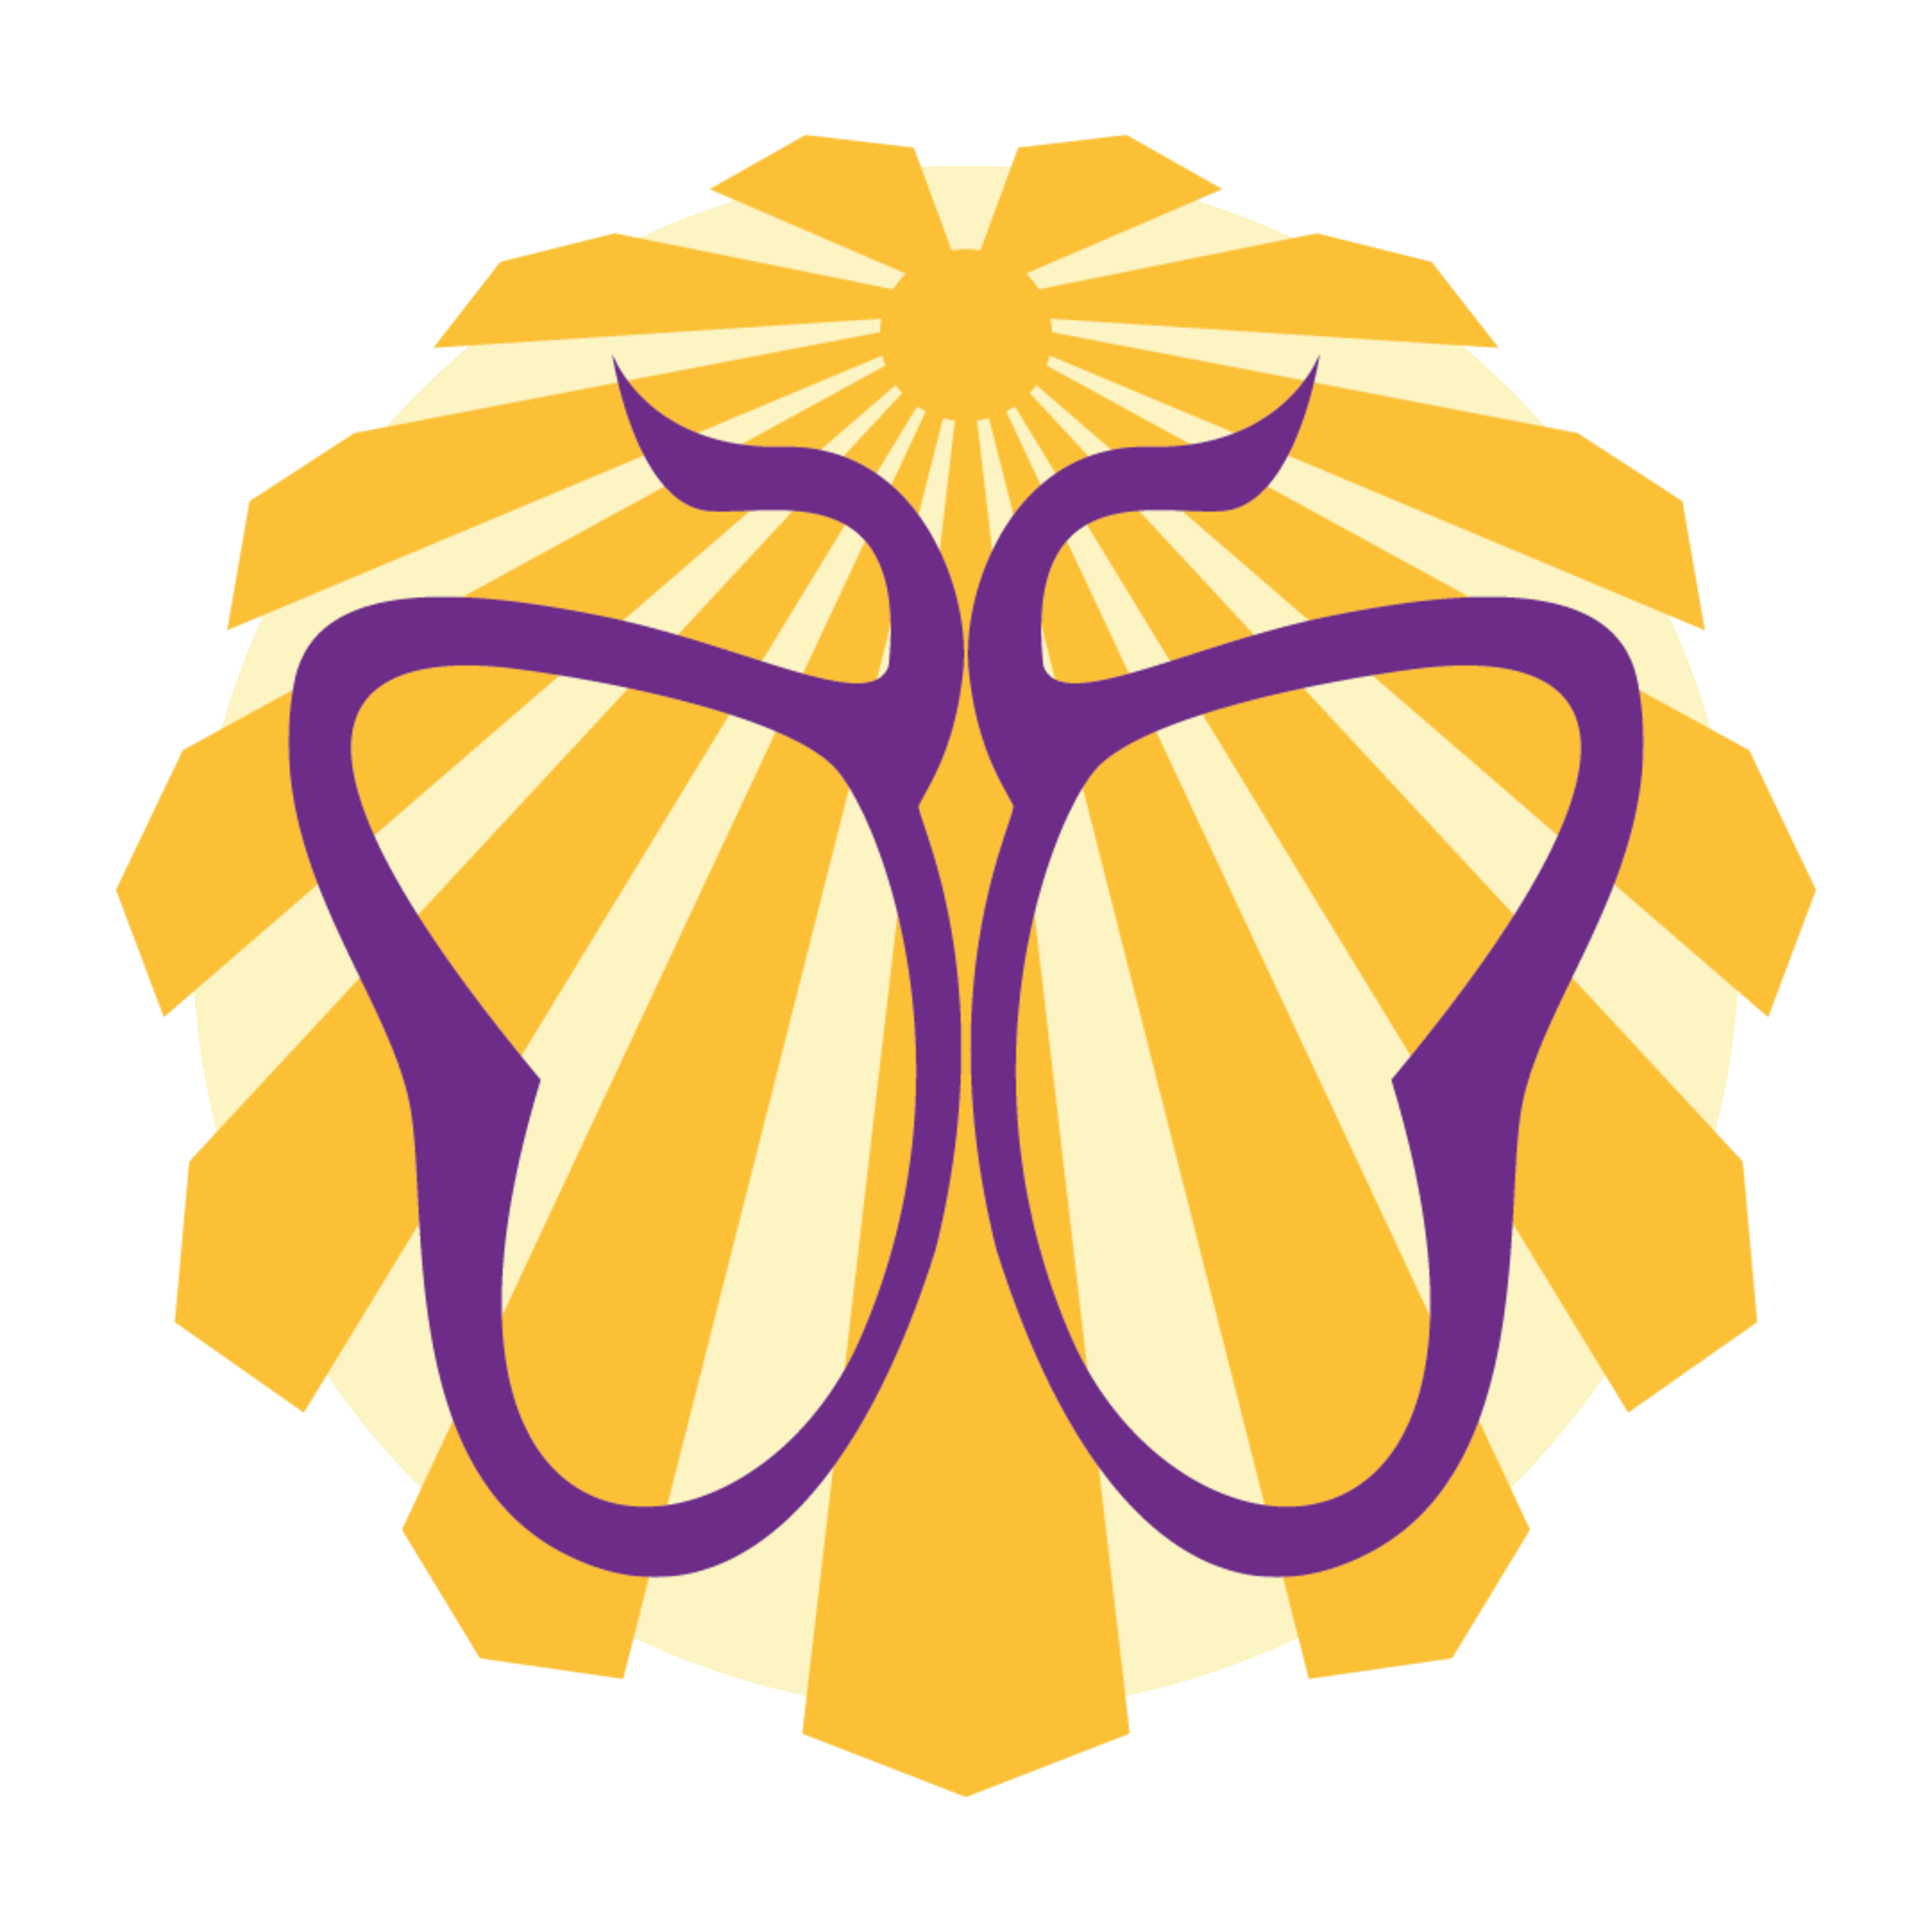
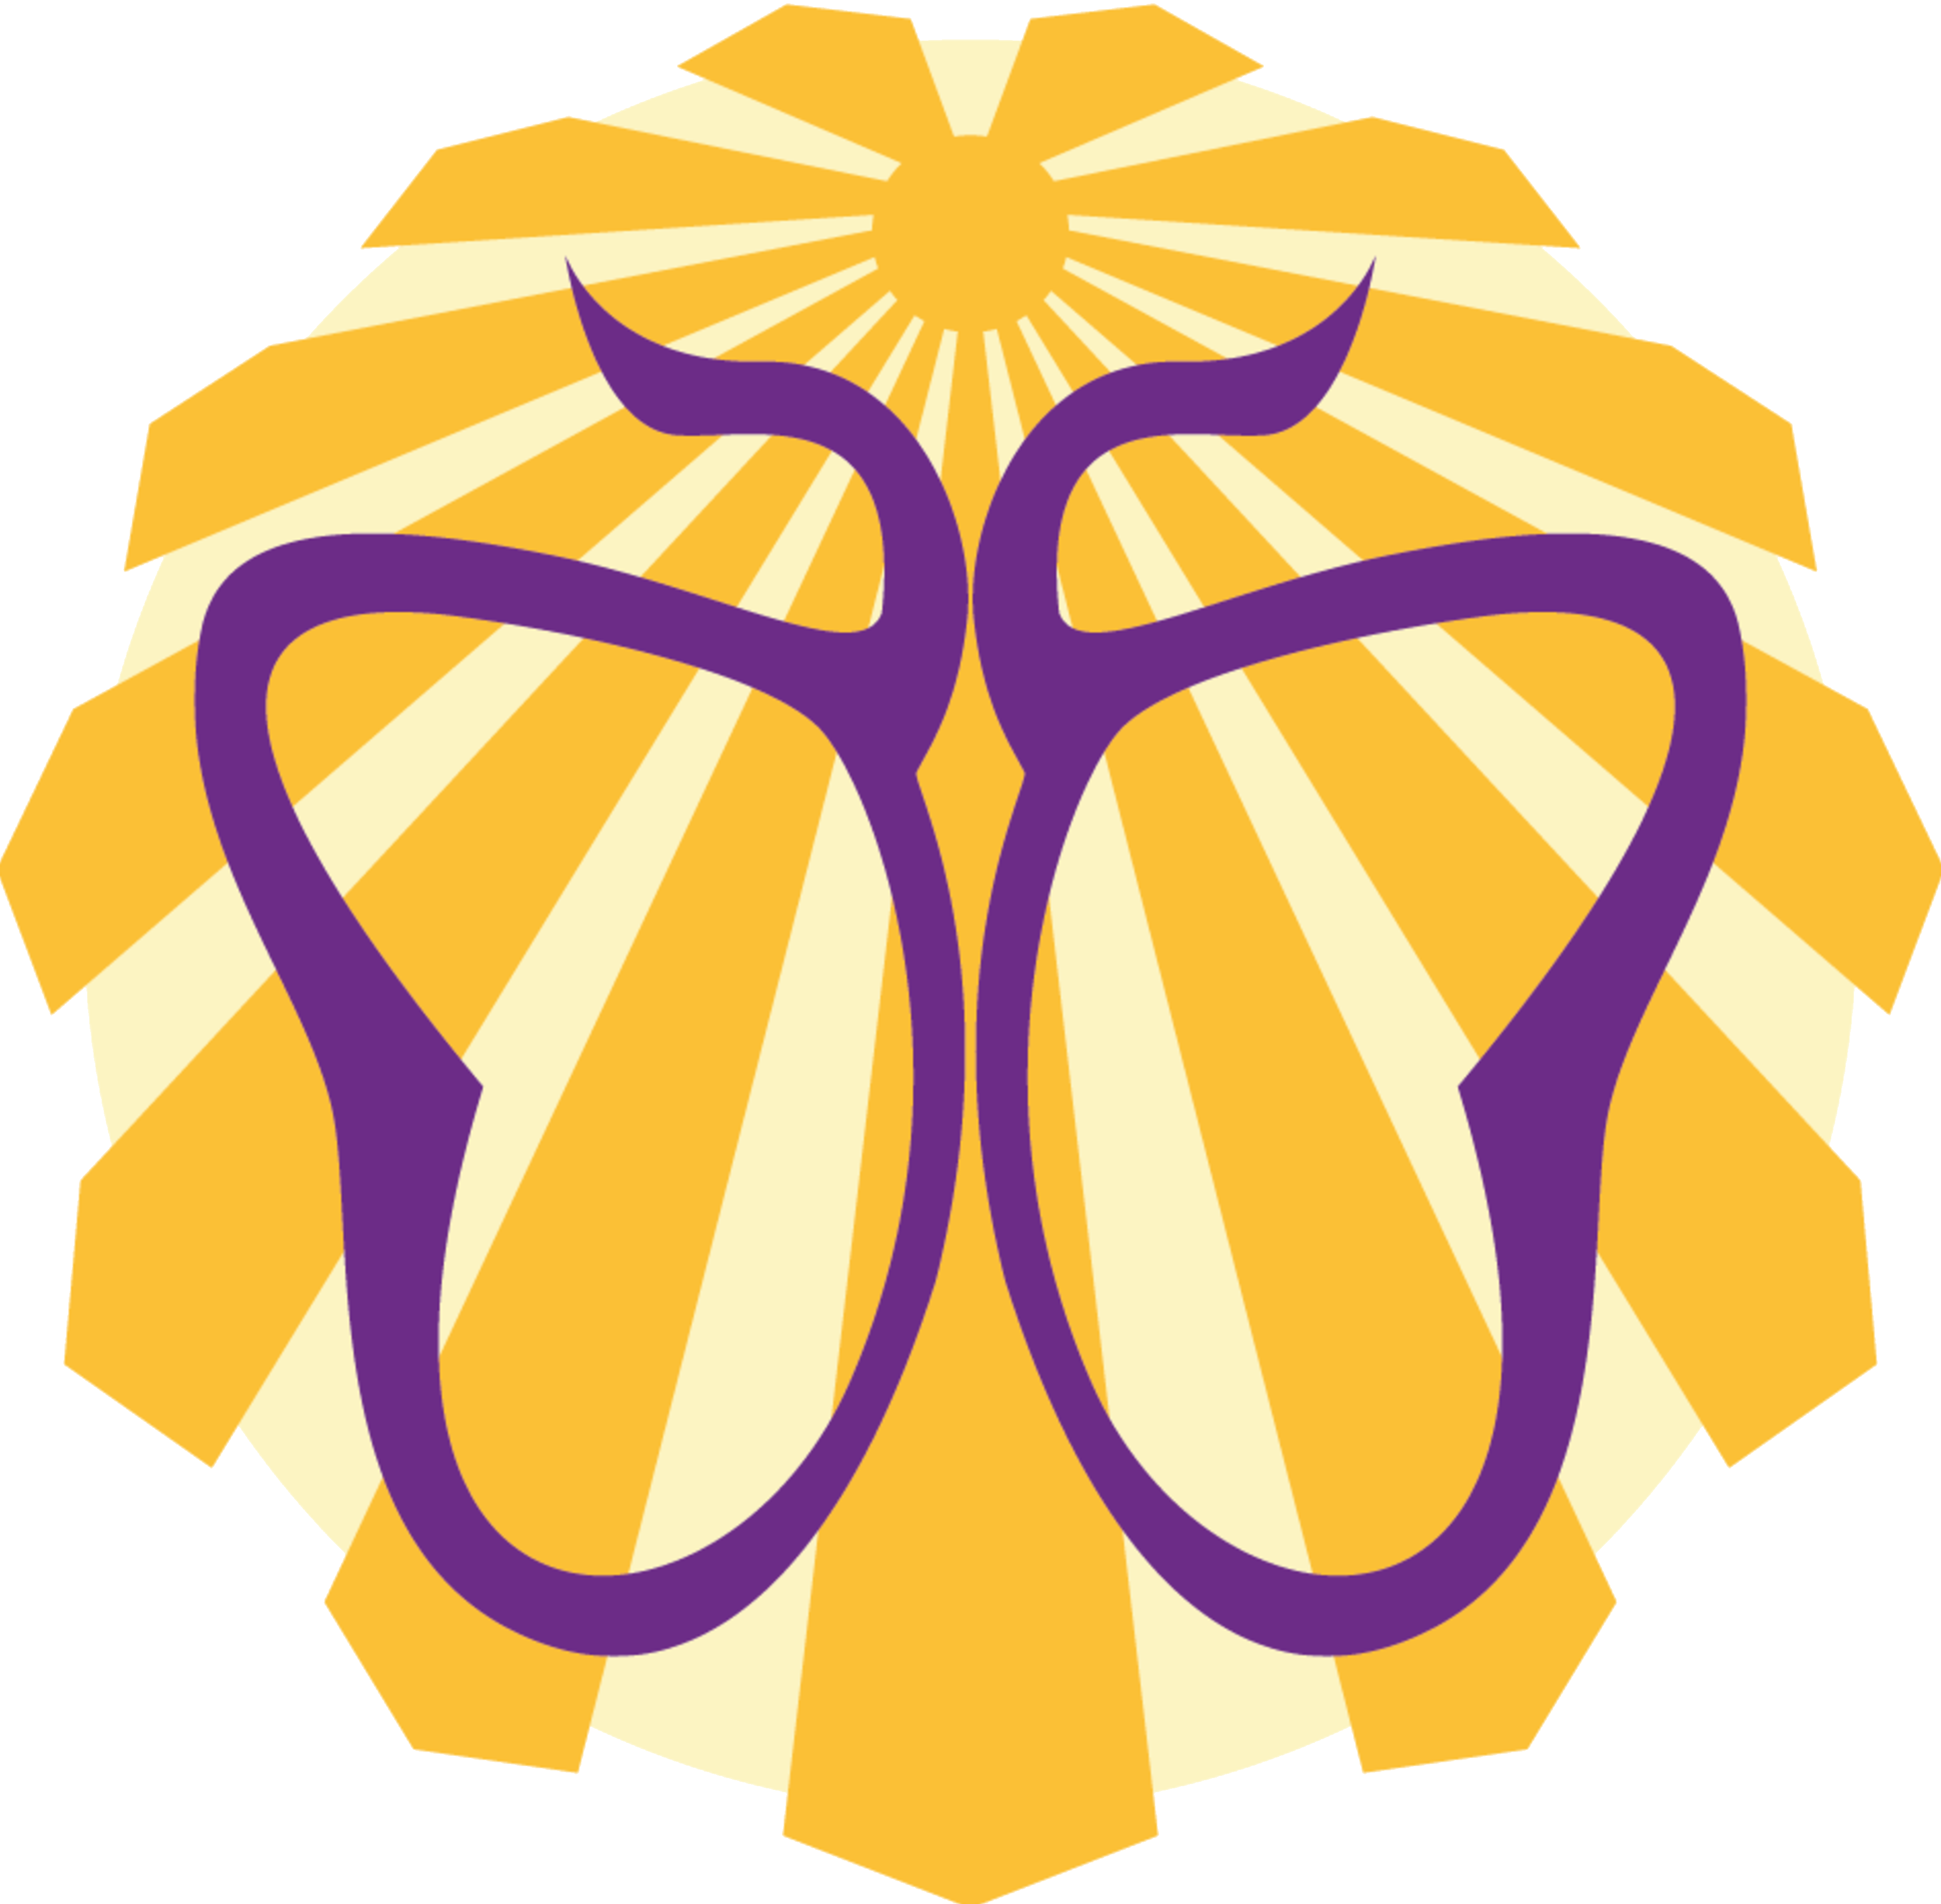
basic header + footer

diff --git a/src/components/Footer.tsx b/src/components/Footer.tsx
@@ -1,0 +1,59 @@
+import diveLogo from '../assets/dive.png'
+import instagramIcon from '../assets/instagram.svg'
+import linkedinIcon from '../assets/linkedin.svg'
+import facebookIcon from '../assets/facebook.svg'
+import './Footer.css'
+
+function Footer() {
+  return (
+    <footer className="footer-container">
+      <div className="footer-inner">
+        <div className="footer-column">
+          <h2>Vad är Dive?</h2>
+          <p>
+            Dive är en studentdriven projektgrupp på Datasektionen jobbar med att nå ut till kvinnor och icke-binära som ska söka högskoleutbildning till hösten för att visa upp både programmet och sektionen.
+          </p>
+        </div>
+
+        <div className="footer-column">
+          <h2>Kontakta oss</h2>
+          <p>
+            Du kan antingen kontakta oss genom
+            <a href="#" className="footer-link-emphasis">
+              {"frågelådan "}
+            </a>
+            {" eller genom att maila"}
+            <a href="mailto:[email redacted]" className="footer-link">
+              [email redacted]
+            </a>
+          </p>
+        </div>
+
+        <div className="footer-right-column">
+          <div className="footer-social-links">
+            {/* <img src={diveLogo} alt="Dive logotyp" className="footer-logo" /> */}
+            <a href="#" className="footer-social-link" aria-label="Dive">
+              <img src={diveLogo} alt="Dive" className="footer-social-icon-dive" />
+            </a>
+            <a href="https://www.instagram.com/dive_kth/" className="footer-social-link" aria-label="Instagram">
+              <img src={instagramIcon} alt="Instagram" className="footer-social-icon" />
+            </a>
+            <a href="https://www.facebook.com/profile.php?id=61574217249948" className="footer-social-link" aria-label="Facebook">
+              <img src={facebookIcon} alt="Facebook" className="footer-social-icon" />
+            </a>
+            <a href="https://www.linkedin.com/company/dive-kth/" className="footer-social-link" aria-label="LinkedIn">
+              <img src={linkedinIcon} alt="LinkedIn" className="footer-social-icon" />
+            </a>
+          </div>
+        </div>
+      </div>
+
+      <div className="footer-bottom">
+        {/* © */}
+        2026 Datasektionen, KTH Sverige
+      </div>
+    </footer>
+  )
+}
+
+export default Footer

diff --git a/src/components/Footer.css b/src/components/Footer.css
@@ -1,0 +1,53 @@
+@reference "../index.css";
+
+.footer-container {
+  @apply w-full bg-primary text-white;
+}
+
+.footer-inner {
+  @apply w-full px-6 py-5 grid gap-8 md:grid-cols-[minmax(320px,1fr)_minmax(320px,1fr)_minmax(240px,320px)];
+}
+
+.footer-column h2 {
+  @apply text-xl font-semibold mb-3;
+}
+
+.footer-column p {
+  @apply text-sm leading-6 text-white;
+}
+
+.footer-link {
+  @apply inline-block text-white underline hover:text-white/90 ml-1;
+}
+
+.footer-link-emphasis {
+  @apply inline-block text-white italic hover:text-white/90 ml-1;
+}
+
+.footer-right-column {
+  @apply flex flex-col items-center justify-between gap-6 md:items-end;
+}
+
+.footer-logo {
+  @apply w-15 h-auto;
+}
+
+.footer-social-links {
+  @apply flex flex-wrap gap-5 mt-2 justify-center md:justify-end;
+}
+
+.footer-social-link {
+  @apply inline-flex items-center justify-center w-15 h-15 text-white;
+}
+
+.footer-social-icon {
+  @apply w-10 h-10;
+}
+
+.footer-social-icon-dive {
+  @apply w-15 h-15 mr-10;
+}
+
+.footer-bottom {
+  @apply border-t border-none text-sm text-white/70 py-2 text-center md:text-right px-6;
+}

diff --git a/src/components/Navigation.css b/src/components/Navigation.css
@@ -1,7 +1,7 @@
 @reference "../index.css";
 
 .nav-container {
-    @apply fixed top-0 left-0 right-0 z-50 bg-black;
+    @apply fixed top-0 left-0 right-0 z-50 bg-primary;
 }
 
 .nav-content {
@@ -9,25 +9,29 @@
 }
 
 .nav-flex {
-    @apply flex items-center;
+    @apply relative flex items-center justify-center h-16;
 }
 
 .nav-brand {
-    @apply text-xl font-bold text-white hover:text-gray-300 transition-colors;
+    @apply absolute left-0 text-xl font-bold text-white hover:text-gray-300 transition-colors w-[60px];
 }
 
 .nav-links {
-    @apply flex gap-2;
+    @apply flex;
+}
+
+.nav-button {
+    @apply bg-primary text-white hover:bg-primary-foreground transition-colors h-full rounded-none focus:outline-none focus-visible:ring-0;
 }
 
 .nav-button-active {
-    @apply bg-white text-black hover:bg-gray-100;
+    @apply bg-primary-foreground;
 }
 
-.nav-button-inactive {
-    @apply hover:bg-white/20;
-}
-
-.nav-button-base {
-    @apply text-gray-500 hover:text-black transition-colors h-full;
+.nav-button-active-text {
+    @apply text-transparent;
+    background-image: linear-gradient(to right, #FF9000, #E83D84);
+    background-clip: text;
+    -webkit-background-clip: text;
+    -webkit-text-fill-color: transparent;
 }

diff --git a/src/components/Navigation.tsx b/src/components/Navigation.tsx
@@ -18,28 +18,29 @@ function Navigation() {
         <nav className="nav-container">
             <div className="nav-content">
                 <div className="nav-flex">
-                    <Link to="/" className="nav-brand w-[60px]">
+                    <Link to="/" className="nav-brand">
                         <img src={diveLogo} alt="Dive Logo" className="nav-logo" />
                     </Link>
                     <div className="nav-links flex h-full">
                         {navItems.map((item) => (
                             <Link key={item.path} to={item.path}>
                                 <Button
-                                    variant={location.pathname === item.path ? "default" : "ghost"}
+                                    variant="ghost"
                                     // size="sm"
                                     className={cn(
-                                        "nav-button-base",
-                                        location.pathname === item.path
-                                            ? "nav-button-active"
-                                            : "nav-button-inactive"
+                                        "nav-button",
+                                        location.pathname === item.path && "nav-button-active"
                                     )}
                                 >
-                                    {item.label}
+                                    <span
+                                        className={location.pathname === item.path ? "nav-button-active-text" : undefined}
+                                    >
+                                        {item.label}
+                                    </span>
                                 </Button>
                             </Link>
                         ))}
                     </div>
-                    <div></div>
                 </div>
             </div>
         </nav>

diff --git a/src/App.tsx b/src/App.tsx
@@ -1,6 +1,7 @@
 import { Routes, Route } from 'react-router-dom'
 import './App.css'
 import Navigation from './components/Navigation'
+import Footer from './components/Footer'
 import Home from './pages/Home'
 import About from './pages/About'
 import Contact from './pages/Contact'
@@ -8,9 +9,9 @@ import NotFound from './pages/NotFound'
 
 function App() {
   return (
-    <div>
+    <div className="min-h-screen flex flex-col">
       <Navigation />
-      <main className="pt-20 w-screen">
+      <main className="pt-20 flex-1">
         <Routes>
           <Route path="/" element={<Home />} />
           <Route path="/about" element={<About />} />
@@ -18,6 +19,7 @@ function App() {
           <Route path="*" element={<NotFound />} /> {/* Catch-all, måste va sist */}
         </Routes>
       </main>
+      <Footer />
     </div>
   )
 }

diff --git a/src/index.css b/src/index.css
@@ -23,8 +23,8 @@
   --card-foreground: oklch(0.145 0 0);
   --popover: oklch(1 0 0);
   --popover-foreground: oklch(0.145 0 0);
-  --primary: oklch(0.205 0 0);
-  --primary-foreground: oklch(0.985 0 0);
+  --primary: #6D2B8C;
+  --primary-foreground: #591B77;
   --secondary: oklch(0.97 0 0);
   --secondary-foreground: oklch(0.205 0 0);
   --muted: oklch(0.97 0 0);